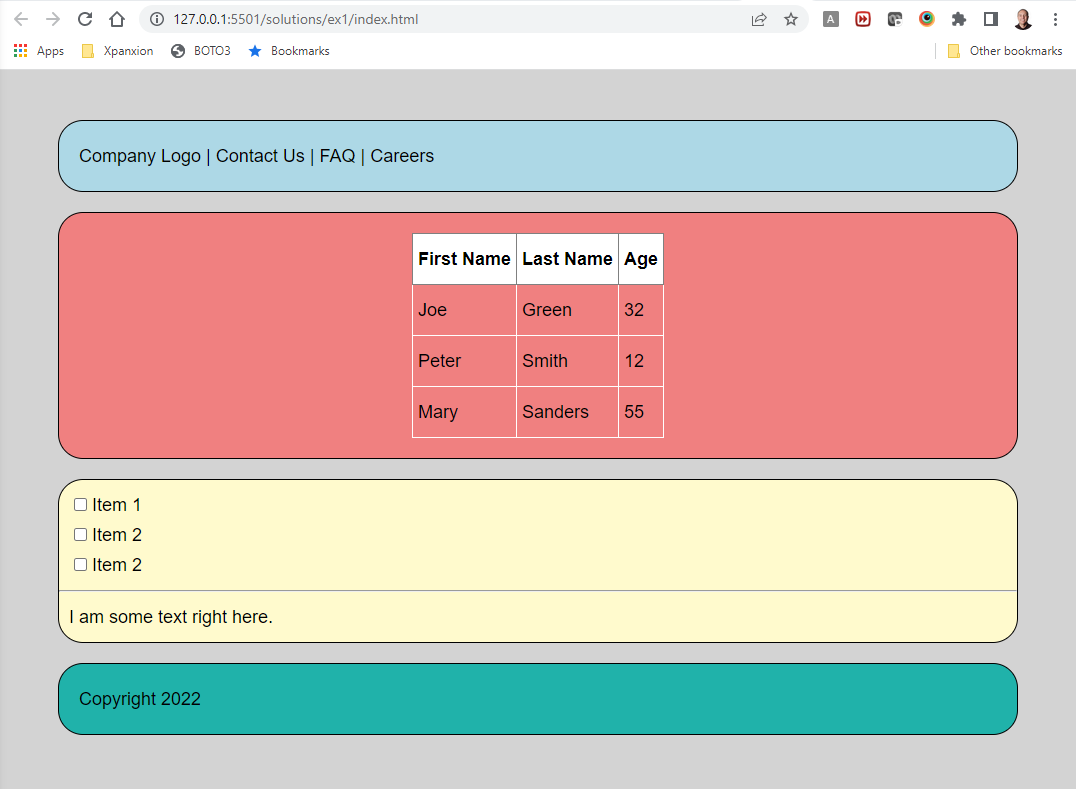
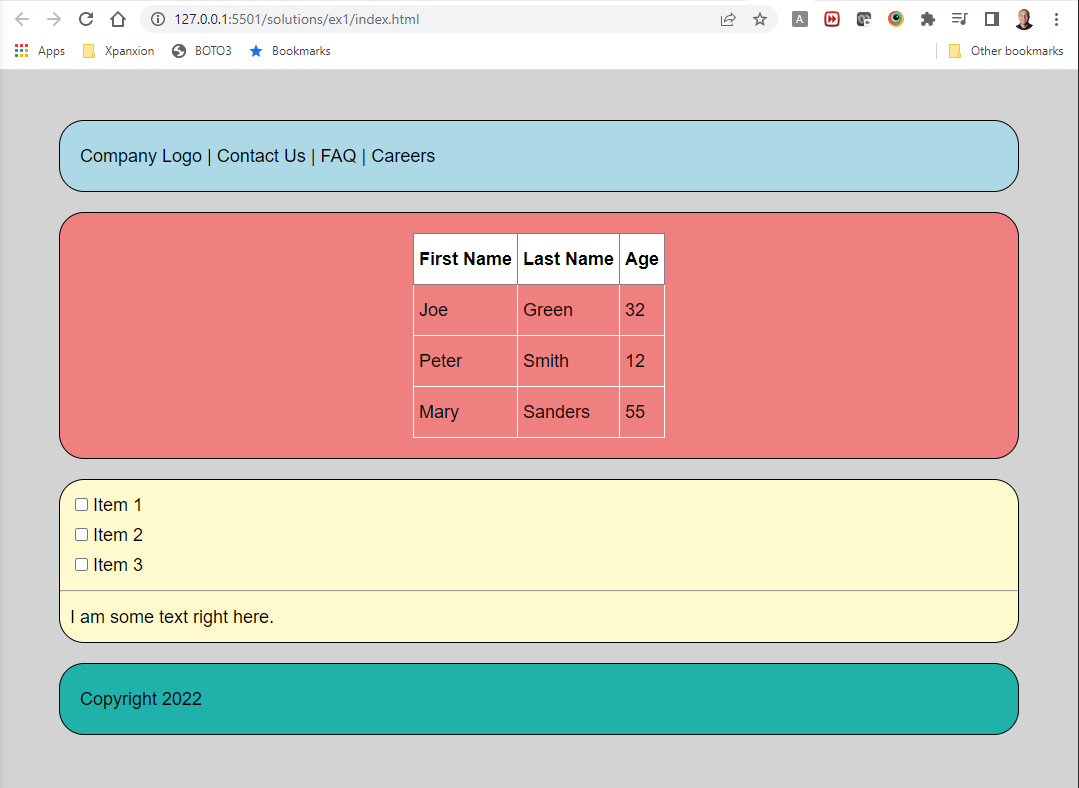
update

diff --git a/solutions/ex1/index.html b/solutions/ex1/index.html
@@ -40,9 +40,9 @@
             </div>
             <div class="section2">
                 <div class="top">
-                  <input type="checkbox" id="vehicle1" name="vehicle1" value="Bike"><label>Item 1</label><br/>
-                  <input type="checkbox" id="vehicle1" name="vehicle1" value="Bike"><label>Item 2</label><br/>
-                  <input type="checkbox" id="vehicle1" name="vehicle1" value="Bike"><label>Item 2</label><br/>
+                  <input type="checkbox" id="Item1" name="Item1" value="Item 1"><label>Item 1</label><br/>
+                  <input type="checkbox" id="Item2" name="Item2" value="Item 2"><label>Item 2</label><br/>
+                  <input type="checkbox" id="Item3" name="Item3" value="Item 3"><label>Item 3</label><br/>
                 </div> 
                 <hr>
                 <div class="bottom">
